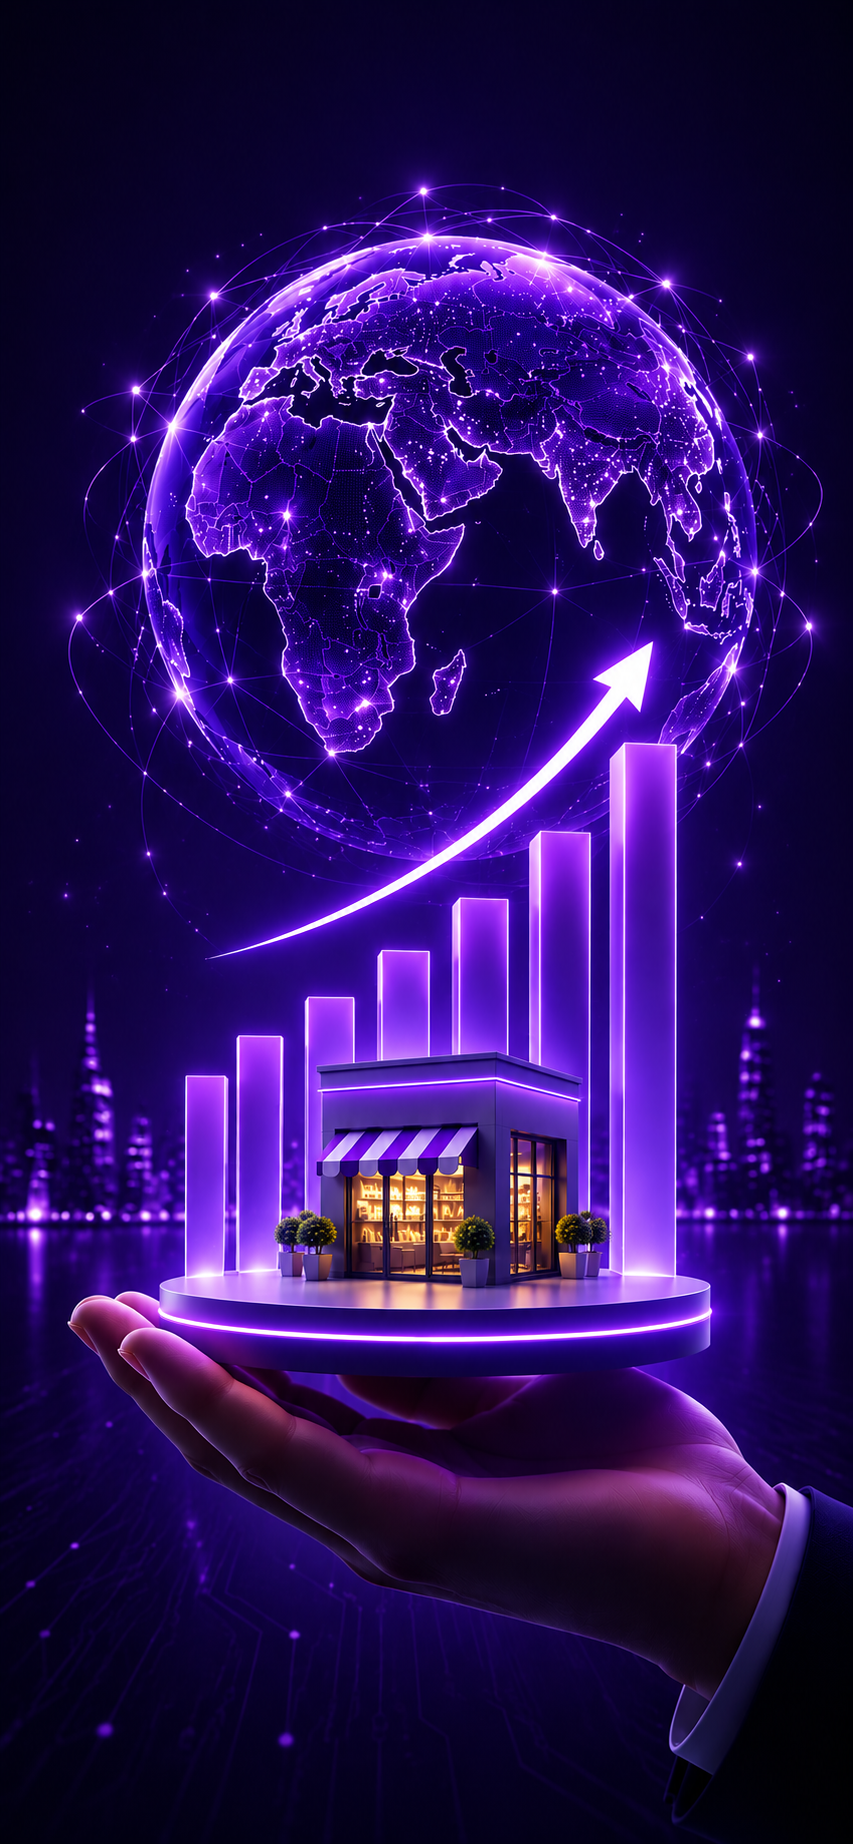
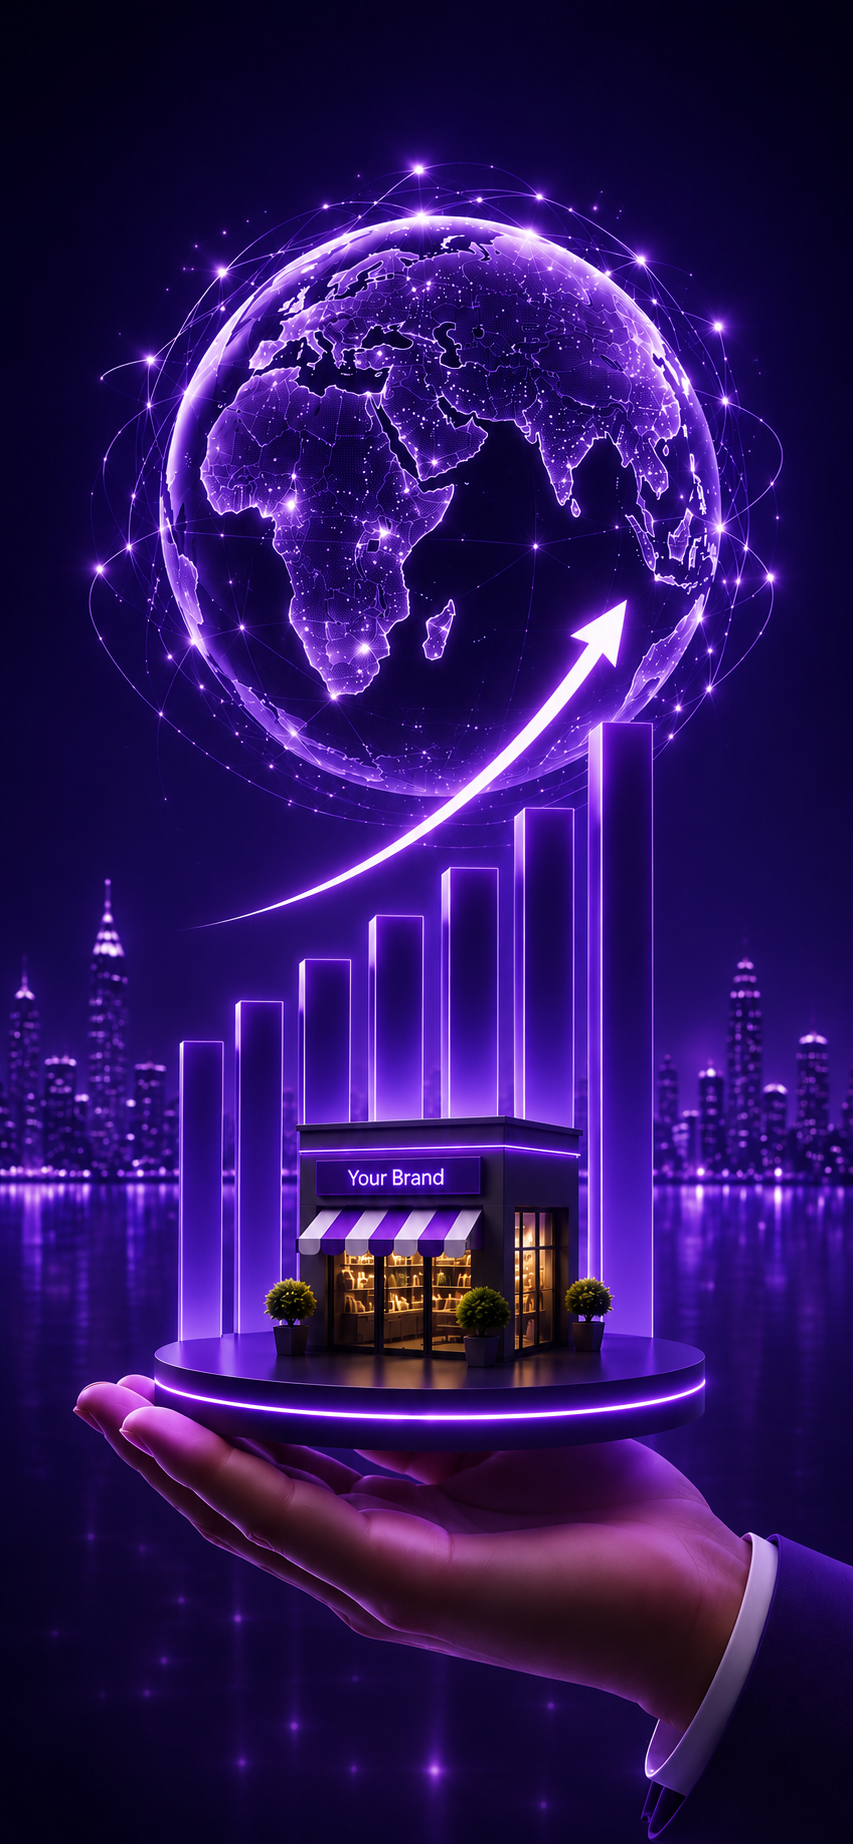
out

diff --git a/src/components/OurServicesSection.jsx b/src/components/OurServicesSection.jsx
@@ -90,12 +90,12 @@ export default function OurServicesSection({
         </h2>
       </div>
 
-      <div className="grid grid-cols-1 items-start gap-5 md:grid-cols-2 lg:grid-cols-3">
+      <div className="grid grid-cols-1 gap-5 md:grid-cols-2 md:auto-rows-fr lg:grid-cols-3">
         {OUR_SERVICES_ITEMS.map((s, i) => (
           <div
             key={s.title}
             id={s.anchorId}
-            className={`group relative overflow-hidden rounded-2xl theme-light-card ${s.anchorId ? 'scroll-mt-28' : ''}`}
+            className={`group relative flex h-full flex-col overflow-hidden rounded-2xl theme-light-card ${s.anchorId ? 'scroll-mt-28' : ''}`}
             style={getCardBaseStyle(isLight, {
               opacity: 0,
               transform: 'translateY(24px)',
@@ -114,9 +114,9 @@ export default function OurServicesSection({
                 transition: 'transform 0.7s ease',
               }}
             />
-            <div className="relative z-10 p-5 sm:p-6">
+            <div className="relative z-10 flex h-full flex-col p-5 sm:p-6">
               <div
-                className="mb-3 inline-flex h-11 w-11 items-center justify-center rounded-xl"
+                className="mb-3 inline-flex h-11 w-11 shrink-0 items-center justify-center rounded-xl"
                 style={{
                   ...serviceIconStyle(isLight),
                   transition: 'transform 0.35s cubic-bezier(0.22,1,0.36,1), background 0.3s ease, box-shadow 0.3s ease',
@@ -126,12 +126,12 @@ export default function OurServicesSection({
               >
                 {SERVICE_ICONS[s.id]}
               </div>
-              <h3 className={`text-[1rem] font-bold mb-2 leading-snug tracking-[-0.01em] ${cardTitleClass(isLight)}`}>
+              <h3 className={`mb-2 shrink-0 text-[1rem] font-bold leading-snug tracking-[-0.01em] ${cardTitleClass(isLight)}`}>
                 {s.title}
               </h3>
-              <p className={`text-[0.875rem] leading-relaxed ${cardBodyClass(isLight)}`}>{s.desc}</p>
+              <p className={`flex-1 text-[0.875rem] leading-relaxed ${cardBodyClass(isLight)}`}>{s.desc}</p>
               {s.points?.length ? (
-                <ul className="mt-5 space-y-2 flex-1">
+                <ul className="mt-5 space-y-2">
                   {s.points.map((p) => (
                     <li key={p} className={`flex items-center gap-2.5 text-[0.76rem] font-medium leading-snug ${cardListClass(isLight)}`}>
                       <span className="flex-shrink-0 w-1 h-1 rounded-full bg-violet-400/60" />

diff --git a/src/components/FranchiseDetailsPage.jsx b/src/components/FranchiseDetailsPage.jsx
@@ -2,7 +2,6 @@ import { useCallback, useEffect, useMemo, useRef, useState } from 'react';
 import { navigateTo, NAVIGATE_EVENT, restoreScrollWithRetry } from '@/lib/navigation';
 import { TYPE } from '../lib/typography.js';
 import ImageCarousel from './ImageCarousel';
-import CtaButton from './ui/CtaButton';
 import FranchiseInquiryLauncher from './FranchiseInquiryLauncher';
 import FranchiseInquiryStickyPanel from './FranchiseInquiryStickyPanel';
 import FranchiseWhatsAppFab from './FranchiseWhatsAppFab';
@@ -555,16 +554,6 @@ function FranchisePartnershipSection({ franchise }) {
           </li>
         ))}
       </ul>
-
-      <div className="mt-4 flex justify-center sm:mt-5">
-        <CtaButton
-          type="button"
-          onClick={() => navigateTo('/franchise-readiness-assessment')}
-          className="!px-4 !py-2 text-sm"
-        >
-          Check your readiness
-        </CtaButton>
-      </div>
     </section>
   );
 }
